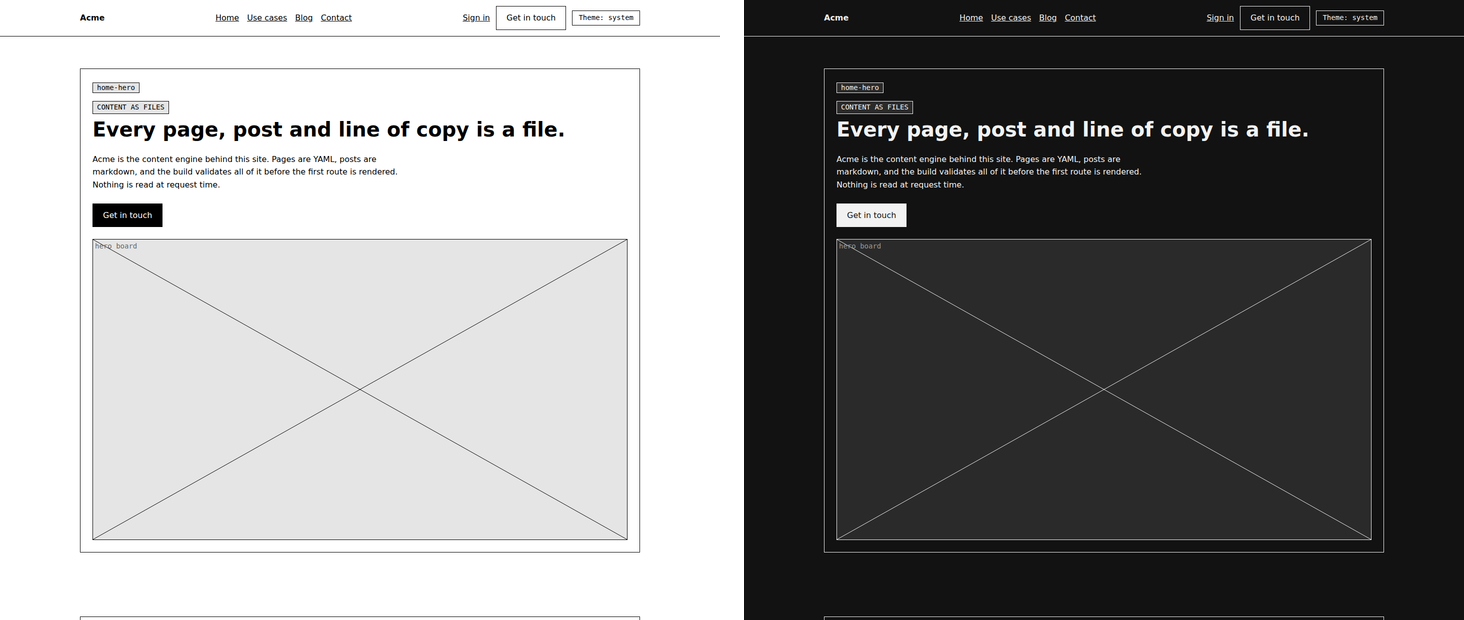
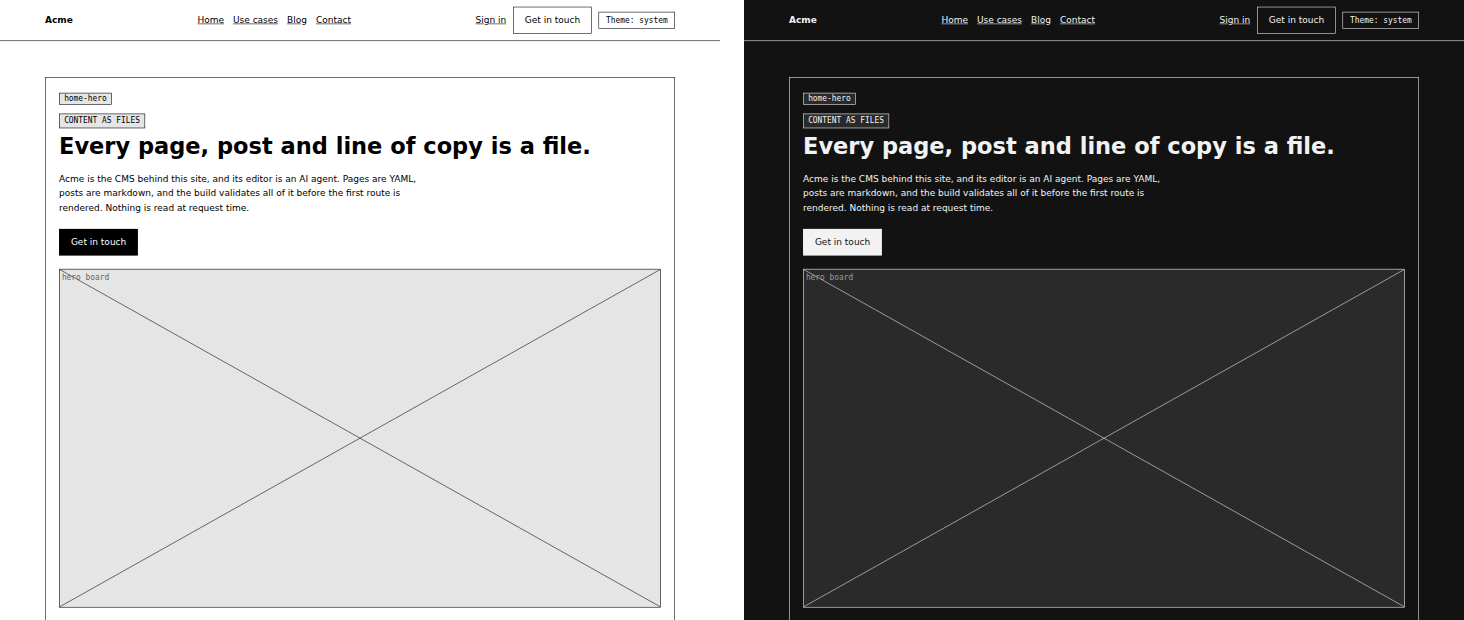
ix: reveals and sequences replay only after leaving the viewport; 0.3.1
useReveal decides when Fx and OnView play: once the element is offset%
into the viewport, and again only after it has left the viewport entirely
(`once` never re-arms). Scrolling a tall block back and forth across the
trigger line while it is still on screen no longer replays it in plain
sight, and a play runs to its end even if the trigger zone is left
meanwhile. The initial play is unchanged.

diff --git a/src/lib/ix/Fx.tsx b/src/lib/ix/Fx.tsx
@@ -1,16 +1,18 @@
 "use client";
 
-import { useAnimate, useInView } from "motion/react";
+import { useAnimate } from "motion/react";
 import Link from "next/link";
 import { createElement, useEffect, type CSSProperties, type ElementType, type ReactNode } from "react";
 import { ease } from "./easing.ts";
 import { useMainBreakpoint, useReducedMotionPref } from "./useMainBreakpoint.ts";
+import { useReveal } from "./useReveal.ts";
 
 /**
  * The classic "scroll into view" reveals (slide in / grow in / fade in),
  * reproduced with the same numbers: 1000ms, ease-out-quart, 100px travel,
- * trigger when the element is `offset`% into the viewport, replayed on every
- * entry (the element snaps back to its start pose, then animates).
+ * trigger when the element is `offset`% into the viewport, replayed on each
+ * entry after the element has left the viewport entirely (the element snaps
+ * back to its start pose, then animates; see useReveal).
  *
  * `mq="main"` limits the effect to desktop (>= 992px), like a design tool's
  * breakpoint setting: smaller screens render the element as-is.
@@ -59,7 +61,7 @@ type Props = {
 
 export function Fx({ preset = "slideInBottom", delay = 0, offset = 12, mq = "all", as = "div", className = "", style, children, ...rest }: Props) {
   const [scope, animate] = useAnimate<HTMLElement>();
-  const inView = useInView(scope, { margin: `0px 0px ${-offset}% 0px` });
+  const plays = useReveal(scope, offset);
   const isMain = useMainBreakpoint();
   const reduce = useReducedMotionPref();
   const enabled = mq === "all" || isMain === true;
@@ -70,13 +72,13 @@ export function Fx({ preset = "slideInBottom", delay = 0, offset = 12, mq = "all
       animate(scope.current, { opacity: 1, x: 0, y: 0, scale: 1 }, { duration: 0 });
       return;
     }
-    if (!inView) return;
+    if (!plays) return;
     const el = scope.current;
     const start = { opacity: 0, x: 0, y: 0, scale: 1, ...START[preset] };
     let cancelled = false;
     let controls: ReturnType<typeof animate> | undefined;
     (async () => {
-      // Snap back to the start pose, then play: the reveal replays on every entry.
+      // Snap back to the start pose, then play; a play runs to its end even if the element leaves meanwhile.
       await animate(el, start, { duration: 0 });
       if (cancelled) return;
       controls = animate(el, { opacity: 1, x: 0, y: 0, scale: 1 }, { duration: 1, ease: ease("outQuart"), delay: delay / 1000 });
@@ -85,7 +87,7 @@ export function Fx({ preset = "slideInBottom", delay = 0, offset = 12, mq = "all
       cancelled = true;
       controls?.stop();
     };
-  }, [inView, enabled, reduce, preset, delay, animate, scope]);
+  }, [plays, enabled, reduce, preset, delay, animate, scope]);
 
   const initClass = mq === "main" ? `ix-main-init--${preset}` : `ix-init--${preset}`;
   const Tag: ElementType = as === "link" ? Link : as;

diff --git a/src/lib/ix/OnView.tsx b/src/lib/ix/OnView.tsx
@@ -1,14 +1,16 @@
 "use client";
 
-import { useAnimate, useInView, type AnimationSequence } from "motion/react";
+import { useAnimate, type AnimationSequence } from "motion/react";
 import { createElement, useEffect, type CSSProperties, type ElementType, type ReactNode } from "react";
 import { useMainBreakpoint, useReducedMotionPref } from "./useMainBreakpoint.ts";
+import { useReveal } from "./useReveal.ts";
 
 /**
- * Runs a Motion animation sequence scoped to this element every time it
- * scrolls into view (a "scroll into view" trigger with a custom action
- * list). `build` receives the element and returns the sequence; selectors in
- * the sequence are resolved inside the element.
+ * Runs a Motion animation sequence scoped to this element each time it
+ * scrolls into view after having left the viewport entirely (a "scroll into
+ * view" trigger with a custom action list; see useReveal). `build` receives
+ * the element and returns the sequence; selectors in the sequence are
+ * resolved inside the element. `once` plays it a single time.
  */
 export function OnView({
   build,
@@ -32,20 +34,20 @@ export function OnView({
   [attr: string]: unknown;
 }) {
   const [scope, animate] = useAnimate<HTMLElement>();
-  const inView = useInView(scope, { margin: `0px 0px ${-offset}% 0px`, once });
+  const plays = useReveal(scope, offset, once);
   const isMain = useMainBreakpoint();
   const reduce = useReducedMotionPref();
   const enabled = mq === "all" || isMain === true;
 
   useEffect(() => {
-    if (!enabled || !inView || !scope.current) return;
+    if (!enabled || !plays || !scope.current) return;
     const controls = animate(build(scope.current));
     // Reduced motion: the elements still have to end where the sequence
     // leaves them (their start states hide them), just without the journey.
     if (reduce) controls.complete();
     return () => controls.stop();
     // eslint-disable-next-line react-hooks/exhaustive-deps
-  }, [inView, enabled, reduce]);
+  }, [plays, enabled, reduce]);
 
   return createElement(as, { ref: scope, className, style, ...rest }, children);
 }

diff --git a/src/lib/ix/useReveal.ts b/src/lib/ix/useReveal.ts
@@ -1,0 +1,32 @@
+"use client";
+
+import { useInView } from "motion/react";
+import { useEffect, useRef, useState, type RefObject } from "react";
+
+/**
+ * When a scroll-into-view effect should play: once the element is `offset`%
+ * into the viewport, and again only after it has left the viewport
+ * entirely. Scrolling an element that is still partly on screen back and
+ * forth across the trigger line does not replay it — on a phone a tall
+ * block crosses that line constantly, and a replay in plain sight reads as
+ * a glitch. `once` never re-arms. Returns the number of plays so far; an
+ * effect keyed on it runs each play to its end.
+ */
+export function useReveal(scope: RefObject<HTMLElement | null>, offset: number, once = false): number {
+  const inView = useInView(scope, { margin: `0px 0px ${-offset}% 0px` });
+  const visible = useInView(scope);
+  const armed = useRef(true);
+  const [plays, setPlays] = useState(0);
+
+  useEffect(() => {
+    if (!inView || !armed.current) return;
+    armed.current = false;
+    setPlays((n) => n + 1);
+  }, [inView]);
+
+  useEffect(() => {
+    if (!visible && !once) armed.current = true;
+  }, [visible, once]);
+
+  return plays;
+}

diff --git a/src/lib/ix/index.ts b/src/lib/ix/index.ts
@@ -6,3 +6,4 @@ export { OnView } from "./OnView.tsx";
 export { ease, EASE, type EaseName } from "./easing.ts";
 export { ix } from "./target.ts";
 export { useMainBreakpoint, useReducedMotionPref } from "./useMainBreakpoint.ts";
+export { useReveal } from "./useReveal.ts";

diff --git a/README.md b/README.md
@@ -1,49 +1,33 @@
 <div align="center">
 
-# agentic-cms
+<picture>
+  <source media="(prefers-color-scheme: dark)" srcset="docs/readme/banner-dark.svg">
+  <img src="docs/readme/banner-light.svg" alt="agentic-cms: an AI agent edits the content files; pnpm build checks the schema, the voice and the SEO with zero failures; the site ships prerendered with no request-time reads" width="960">
+</picture>
 
-**A simple CMS whose editor is an AI agent.**
+**Pages, posts and every line of copy are files in a Next.js repo.**<br>
+**An agent edits them. The build says no. What ships is static.**
 
-Pages, posts and every line of copy are files in a Next.js repo. An agent edits
-them; the build validates them, lints the voice, audits the SEO and prerenders
-the lot. Nothing is read at request time.
+![MIT](https://img.shields.io/badge/license-MIT-000) ![Next.js 16](https://img.shields.io/badge/Next.js-16-000) ![Tailwind CSS 4](https://img.shields.io/badge/Tailwind_CSS-4-000) ![Cloudflare Workers](https://img.shields.io/badge/serves_from-Cloudflare_Workers-000) ![Node 22.18+](https://img.shields.io/badge/node-22.18%2B-000) ![request-time reads: 0](https://img.shields.io/badge/request--time_reads-0-000) ![Claude Code and Codex](https://img.shields.io/badge/plugin-Claude_Code_%C2%B7_Codex-000)
 
-![MIT](https://img.shields.io/badge/license-MIT-000) ![Next.js 16](https://img.shields.io/badge/Next.js-16-000) ![Tailwind CSS 4](https://img.shields.io/badge/Tailwind_CSS-4-000) ![Cloudflare Workers](https://img.shields.io/badge/serves_from-Cloudflare_Workers-000) ![Node 22.18+](https://img.shields.io/badge/node-22.18%2B-000) ![request-time reads: 0](https://img.shields.io/badge/request--time_reads-0-000)
-
-<img src="docs/readme/landing.png" alt="The example site's landing page, light mode on the left and dark mode on the right: a boxed hero section tagged home-hero, a heading, a button and a crossed placeholder for the hero illustration" width="960">
+[The loop](#the-loop) · [Files, not a database](#files-not-a-database) · [A page is a file](#a-page-is-a-file) · [A post is a file](#a-post-is-a-file) · [The voice is a lint](#the-voice-is-a-lint) · [The editor is an agent](#the-editor-is-an-agent) · [Built on it](#built-on-agentic-cms) · [Start your own site](#start-your-own-site)
 
 </div>
 
-## The idea
+## The loop
 
-- **The repo is the CMS.** A page is `content/pages/<slug>.yaml`: its SEO
-  block, its structured data, its sections in order with all their copy. A
-  post is `content/blog/<slug>.md`. Authors, categories, reviews, FAQ sets
-  and use cases are files too. Seven collections, one folder, one pull
-  request per change.
-- **The build is the gate.** Every file is parsed against a zod schema; every
-  string is read against the site's voice rules; every prerendered page is
-  audited for its title, description, canonical, Open Graph, headings, image
-  attributes, structured data and sitemap entry. A wrong value stops the
-  build with a line that names the file, the field and the problem.
-- **The agent is the editor.** The `editorial` plugin gives Claude Code and
-  Codex eight skills that write, add, update, review, retire and report on
-  content, reading the site's rules from the repo, and Claude Code two review
-  agents that run the two review skills in isolation. It knows no brand.
-- **The design is yours.** What ships is a wireframe: four colours in a light
-  and a dark mode, a system font, boxes that print their own section type.
-  A fork replaces the look; the machinery stays.
+**1. The agent edits a file.** The landing page is `content/pages/home.yaml`:
+its SEO block, its structured data, its sections in order with all their
+copy. A post is `content/blog/<slug>.md`. The `editorial` plugin gives Claude
+Code and Codex the skills that write, add, update, review, retire and report
+on that content, reading the site's own rules from the repo and stopping at
+every gate for a person.
 
-## Sixty seconds
-
-```bash
-git clone git@github.com:HKamkar/agentic-cms.git && cd agentic-cms
-pnpm install
-pnpm dev          # http://localhost:8000
-```
-
-Change a line in `content/pages/home.yaml` and reload. Then break a few and
-build; this is what the build says, verbatim:
+**2. The build says no.** Every file is parsed against its schema, every
+string is read against the site's voice rules, every prerendered page is
+audited for its title, description, canonical, Open Graph, headings, image
+attributes, structured data and sitemap entry. Break a few things and build;
+this is what it says, verbatim:
 
 ```
 $ pnpm build
@@ -57,6 +41,31 @@ WARN content/blog/pages-are-files.md seo-title: seoTitle is 66 characters; Googl
 
 `pnpm content:lint` gives the same answer in about a second, without the build.
 
+**3. What ships is static.** Every page is prerendered and served from a
+Cloudflare Worker's asset cache. There is no database, no admin screen and
+no request-time read; a copy change is a diff, a review and a deploy.
+
+```bash
+git clone git@github.com:HKamkar/agentic-cms.git && cd agentic-cms
+pnpm install
+pnpm dev          # http://localhost:8000, then change a line in content/pages/home.yaml
+```
+
+<div align="center">
+<img src="docs/readme/landing.png" alt="The example site's landing page, light mode on the left and dark mode on the right: a boxed hero section tagged home-hero, a heading, a button and a crossed placeholder for the hero illustration" width="960">
+</div>
+
+## Files, not a database
+
+| | agentic-cms | A CMS with a database |
+|---|---|---|
+| Where the copy lives | `content/`: seven collections, one folder, one pull request per change | rows behind an admin screen |
+| Who edits it | an AI agent, with a person approving each gate; or anyone with an editor | people in the admin screen |
+| What stops a mistake | the build, with a line that names the file, the field and the problem | a preview, if someone looks |
+| What runs at request time | nothing: prerendered, static, cached at the edge | a query per page |
+| The design | yours: what ships is a wireframe a fork replaces, with the machinery kept | the theme's |
+| When it is the wrong tool | copy that must change without a deploy, a search over thousands of entries, or authors who will never open a pull request | — |
+
 ## A page is a file
 
 ```yaml
@@ -64,9 +73,9 @@ WARN content/blog/pages-are-files.md seo-title: seoTitle is 66 characters; Googl
 seo:
   path: /
   title: "Acme: content as files, checked on every build"
-  description: Acme is a content engine whose pages, posts and copy are files. Every file is validated at build time, prerendered, and served with no request-time reads.
+  description: Acme is a CMS whose editor is an AI agent. Pages, posts and copy are files, validated at build time, prerendered, and served with no request-time reads.
   ogImage: /images/home-og.jpg
-  updated: "2026-09-15"
+  updated: "2026-09-18"
   breadcrumb: Home
 jsonld:
   type: WebPage
@@ -75,7 +84,7 @@ sections:
   - type: home-hero
     eyebrow: Content as files
     heading: Every page, post and line of copy is a file.
-    text: Acme is the content engine behind this site. Pages are YAML, posts are markdown, and the build validates all of it before the first route is rendered.
+    text: Acme is the CMS behind this site, and its editor is an AI agent. Pages are YAML, posts are markdown, and the build validates all of it before the first route is rendered.
     cta: Get in touch
   - type: home-service
     …
@@ -193,7 +202,7 @@ the first site on the package. Its design — the sections, the chrome, the
 CSS modules, the images, the reveals and sequences on
 `agentic-cms/ix` — its content and its config live in its own repo;
 the engines, the reveal library and the command line come from here by tag
-(`github:HKamkar/agentic-cms#v0.3.0`), composed once in its
+(`github:HKamkar/agentic-cms#v0.3.1`), composed once in its
 `src/kit.ts`. Same page files, same post pipeline, same lint and audit as
 the wireframe above; the design is the part a site brings.
 
@@ -207,7 +216,7 @@ command line come from `agentic-cms`; your repo holds the design,
 the content, the config and the docs, nothing of the engine.
 
 ```bash
-pnpm add agentic-cms@github:HKamkar/agentic-cms#v0.3.0 next react react-dom zod motion
+pnpm add agentic-cms@github:HKamkar/agentic-cms#v0.3.1 next react react-dom zod motion
 pnpm add -D playwright-core          # only for the screenshot harness
 ```
 
@@ -219,7 +228,8 @@ allowBuilds:
   "agentic-cms@github:HKamkar/agentic-cms": true
 ```
 
-Then, in either case:
+<details>
+<summary><b>Then, in either case: the six steps</b></summary>
 
 1. Forking: rename the package, the Worker (`wrangler.jsonc`) and the plugin
    marketplace to your own name. Installing: `src/kit.ts` is where your site
@@ -256,6 +266,8 @@ Then, in either case:
    delete the `/sections/*` demo pages.
 6. `pnpm content:lint` until clean, `pnpm build`, `pnpm preview`, then
    `pnpm run deploy`.
+
+</details>
 
 A new kind of section is a copy schema, a component and a registry entry
 (`src/components/sections/`). A collection of your own is a schema and a

diff --git a/STANDARD.md b/STANDARD.md
@@ -318,7 +318,7 @@ The reveal library survives for a fork that wants reveals, whole and unused, in
 
 | Export | What it is |
 |---|---|
-| `Fx` | the scroll-into-view reveal, 1000 ms, ease-out-quart, 100 px travel, replayed on every entry: `<Fx preset="slideInBottom" delay={200} offset={12} mq="main" as="li">`. Presets `slideInBottom/Top/Left/Right`, the four corners, `growIn` (from scale 0.75) and `fadeIn`; `as="link"` renders `next/link`. |
+| `Fx` | the scroll-into-view reveal, 1000 ms, ease-out-quart, 100 px travel, replayed on each entry after the element has left the viewport entirely (never while it is still partly on screen): `<Fx preset="slideInBottom" delay={200} offset={12} mq="main" as="li">`. Presets `slideInBottom/Top/Left/Right`, the four corners, `growIn` (from scale 0.75) and `fadeIn`; `as="link"` renders `next/link`. |
 | `OnView` | a sequence over several elements when the section enters: `build={(root) => [[ix("card-2"), { y: "0%" }, { duration: 0.5, ease: ease("ease") }], …]}`, Motion's `animate()` format, resolved inside the element. |
 | `ease(name)` | `linear`, `ease`, `easeIn`, `easeOut`, `easeInOut`, `outQuad`, `outQuart`, `inOutCirc`, `inOutQuad`, `outCubic`. |
 | `ix(name)`, `useMainBreakpoint()`, `useReducedMotionPref()` | the selector for a `data-ix` target; the ≥ 992 px query (`null` until mounted); `prefers-reduced-motion`. |
